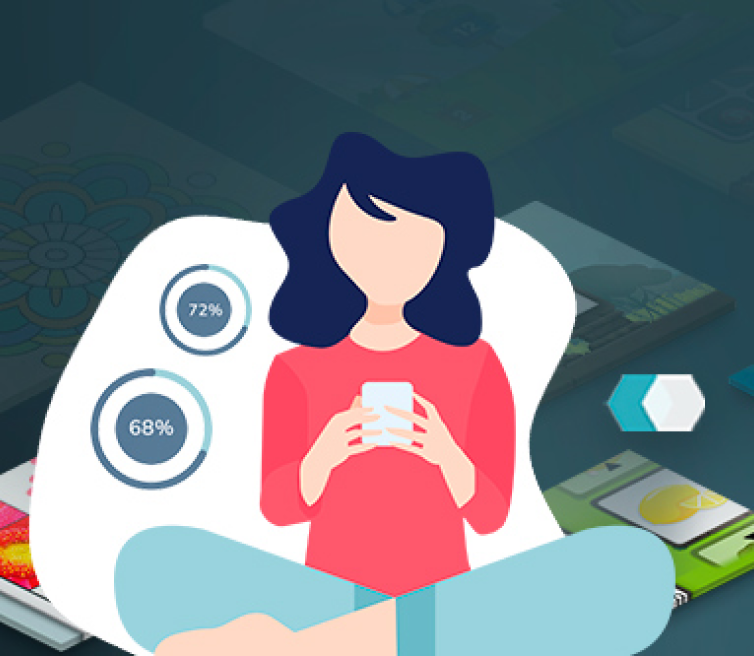
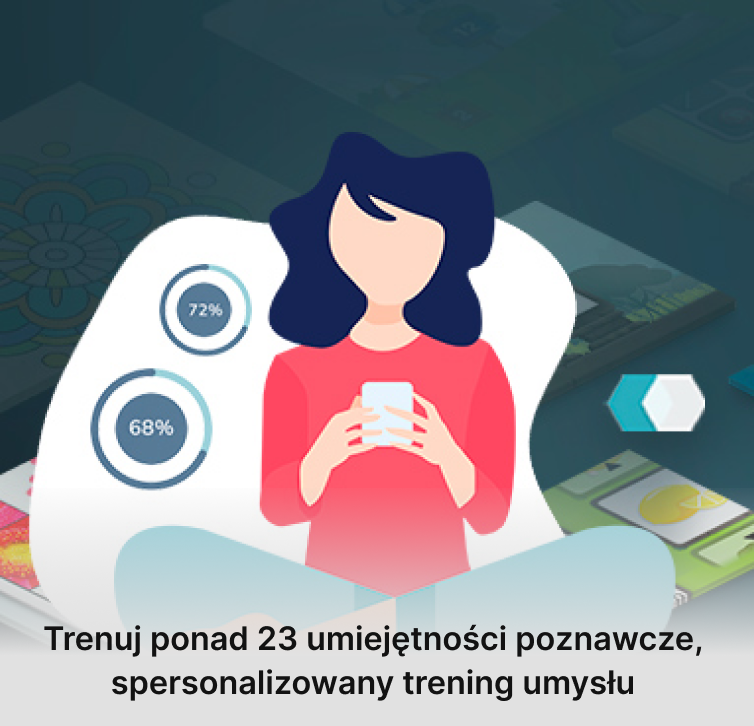
fixed styles

diff --git a/src/otp.html b/src/otp.html
@@ -10,15 +10,8 @@
             //= html_partials/header.html
 
             <img src="img/hero-bg.png" alt="Banner image" class="banner-bg">
-            <div class="banner-shadow">
-                <div class="container">
-                    <div class="banner-pin">
-                        <p class="fs-1 text-dark fw-bold text-center">Trenuj ponad 23 umiejętności poznawcze, spersonalizowany trening umysłu</p>
-                    </div>
-                </div>
-            </div>
         </section>
-        <section class="hero pt-5 pb-4">
+        <section class="hero pt-3 pb-4">
             <div class="container">
                 <div class="row justify-content-center">
                     <div class="col-lg-7 col-12">
@@ -41,7 +34,7 @@
                         <p class="mb-4">Usługę możesz dezaktywować poprzez: <span class="text-success text-uppercase">stop mind</span> na 80708 (Orange) lub 80425 (T-Mobile / Plus) lub 191 (Play).Opłata zostanie doliczona do Twojego rachunku u twojego operatora (telefon
                             na abonament) lub odliczona od środków na koncie (telefon na kartę).
                         </p>
-                        <p class="mb-3">Kontakt: <a href="mailto:info-pl@mobileinfo.biz" class="btn-link d-inline">info-pl@mobileinfo.biz</a> <span class="text-success d-inline">/</span> <a href="mailto:support@bitegames.com" class="btn-link d-inline">support@bitegames.com</a>,
+                        <p class="mb-3">Kontakt: <a href="mailto:info-pl@mobileinfo.biz" class="btn-link d-inline">info-pl@mobileinfo.biz</a> <span class="text-success d-inline">/</span> <a href="mailto:support@mindplus.com" class="btn-link d-inline">support@mindplus.com</a>,
                             numer telefoniczny: 800 00 7173 (opłata lokalna) od poniedziałku do piątku w godzinach 09:00 – 17:00.
                         </p>
                         <p>Usługodawcą i podmiotem realizującym dodatkowe świadczenie jest: PLAYWING LTD, 2 Cresswell Gardens, F-3, SW50BJ, London, Great Britain, zarejestrowany w Rejestrze Handlowym w London, Great Britain pod numerem GB 853 4660 15

diff --git a/src/success.html b/src/success.html
@@ -9,11 +9,9 @@
             <!-- Header -->
             //= html_partials/header.html
 
-            <img src="img/hero-bg.png" alt="Banner image" class="banner-bg">
-
-            <div class="banner-shadow"></div>
+            <img src="img/confirmation-bg.png" alt="Banner image" class="banner-bg">
         </section>
-        <section class="hero pb-4">
+        <section class="hero pt-3 pb-4">
             <div class="container">
                 <div class="row justify-content-center">
                     <div class="col-lg-7 col-12">
@@ -33,9 +31,9 @@
                         </p>
                         <p class="mb-3">Wkrótce zostaniesz przekierowany do usługi.</p>
 
-                        <p>Jeśli to się nie stanie w ciągu kilku minut, <a href="pin.html" class="btn-link text-success">click here</a></p>
+                        <p>Jeśli to się nie stanie w ciągu kilku minut, <a href="pin.html" class="btn-link text-success">kliknij tutaj</a></p>
                         <p>W przypadku reklamacji dotyczących usługi Mind+, skontaktuj się z nami: <a href="mailto:info-pl@mobileinfo.biz" class="btn-link text-success">info-pl@mobileinfo.biz</a> <span class="text-success">/</span>
-                            <a href="mailto:support@bitegames.com" class="btn-link text-success">support@bitegames.com</a>
+                            <a href="mailto:support@mindplus.com" class="btn-link text-success">support@mindplus.com</a>
                         </p>
                         <p class="mb-3">Proszę podać w temacie wiadomości swój numer transakcji.
                         </p>

diff --git a/src/pin.html b/src/pin.html
@@ -9,20 +9,14 @@
             <!-- Header -->
             //= html_partials/header.html
 
-            <img src="img/hero-bg.png" alt="Banner image" class="banner-bg">
-            <div class="banner-shadow">
-                <div class="container">
-                    <div class="banner-pin">
-                        <p class="fw-bold mb-2">Playwing LTD</p>
-                        <p class="fw-bold mb-2">Podaj numer PIN otrzymany SMSem:</p>
-                    </div>
-                </div>
-            </div>
+            <img src="img/confirmation-bg.png" alt="Banner image" class="banner-bg">
         </section>
-        <section class="hero mt-2 pt-4 pb-4">
+        <section class="hero pt-3 pb-4">
             <div class="container">
                 <div class="row justify-content-center">
                     <div class="col-lg-7 col-12">
+                        <p class="fw-bold mb-2">Playwing LTD</p>
+                        <p class="fw-bold mb-2">Podaj numer PIN otrzymany SMSem:</p>
                         <form method="get" action="success.html" class="needs-validation" novalidate>
                             <input type="text" pattern="[0-9]*" class="form-control text-center mb-2" id="inputPin" placeholder="xxxx" minlength="4" maxlength="4" required>
 

diff --git a/src/style/main.scss b/src/style/main.scss
@@ -40,28 +40,6 @@
                 object-fit: contain;
             }
         }
-        .banner-shadow {
-            width: 100%;
-            height: 5.25rem;
-            position: absolute;
-            bottom: 0;
-            background: linear-gradient(180deg, rgba(201, 201, 201, 0) 0%, rgba(218, 218, 218, 1) 100%);
-            .banner-text {
-                position: absolute;
-                bottom: -1.5rem;
-                right: 0;
-                left: 0;
-            }
-            .banner-pin {
-                position: absolute;
-                bottom: -2rem;
-                @media (min-width: 576px) {
-                    left: 0;
-                    right: 0;
-                    text-align: center;
-                }
-            }
-        }
         .banner-check-icon {
             margin-top: auto;
         }

diff --git a/src/index.html b/src/index.html
@@ -10,16 +10,8 @@
             //= html_partials/header.html
 
             <img src="img/hero-bg.png" alt="Banner image" class="banner-bg">
-
-            <div class="banner-shadow">
-                <div class="container">
-                    <div class="banner-text">
-                        <p class="fs-1 text-dark fw-bold text-center">Trenuj ponad 23 umiejętności poznawcze, spersonalizowany trening umysłu</p>
-                    </div>
-                </div>
-            </div>
         </section>
-        <section class="hero pt-5 pb-4">
+        <section class="hero pt-3 pb-4">
             <div class="container">
                 <div class="row justify-content-center">
                     <div class="col-lg-7 col-12">

diff --git a/src/style/theme/_variables.scss b/src/style/theme/_variables.scss
@@ -5,7 +5,7 @@ $font-weight-medium: 500;
 $container-padding-x: 2rem;
 $white: #FFFFFF;
 $green: #00B262;
-$gray-218: #DADADA;
+$gray-218: #E1E1E1;
 $gray: #3E4E4A;
 $light-gray: #818181;
 $black: #121212;
